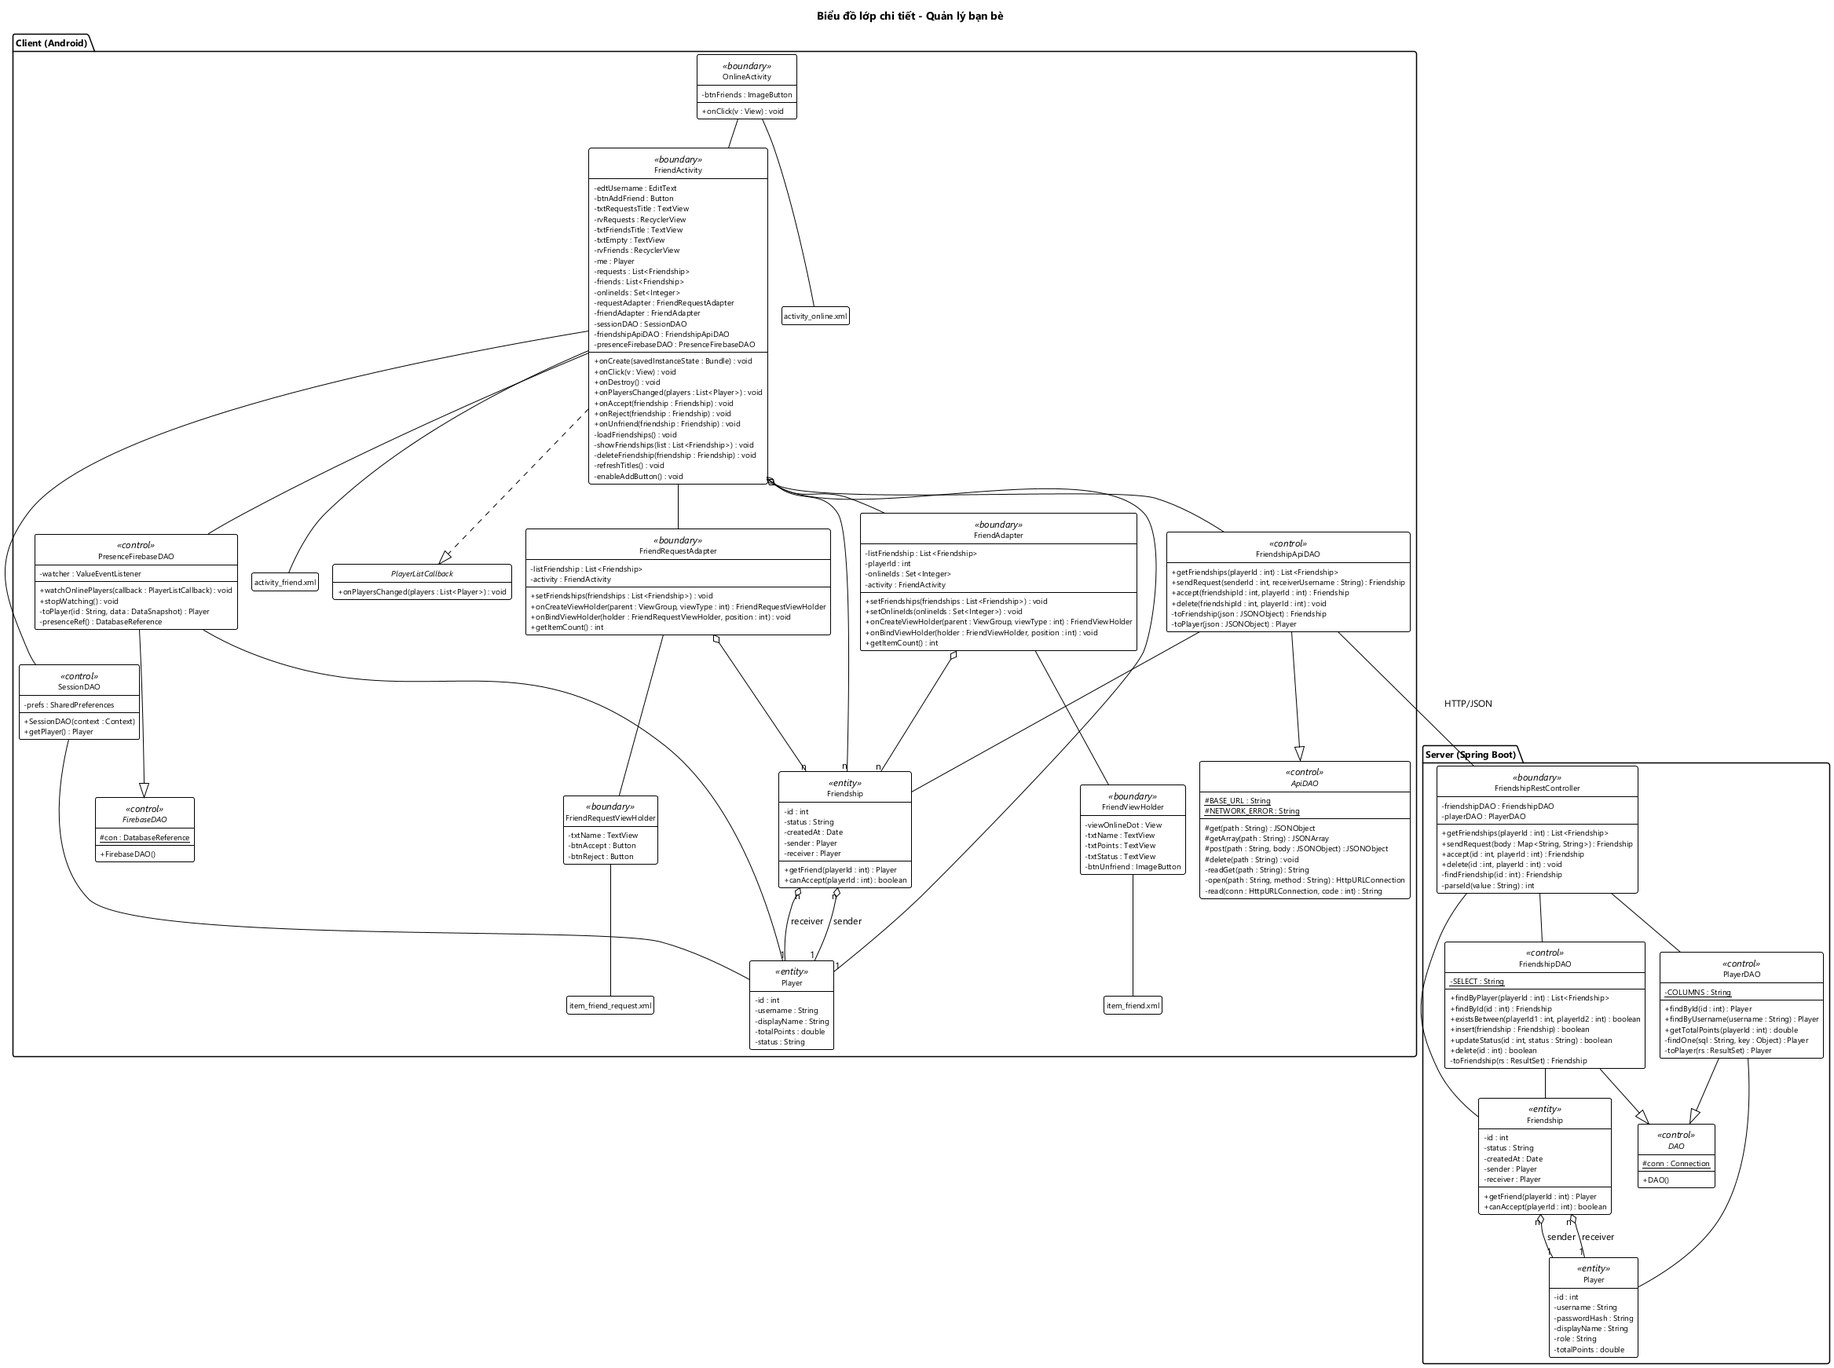
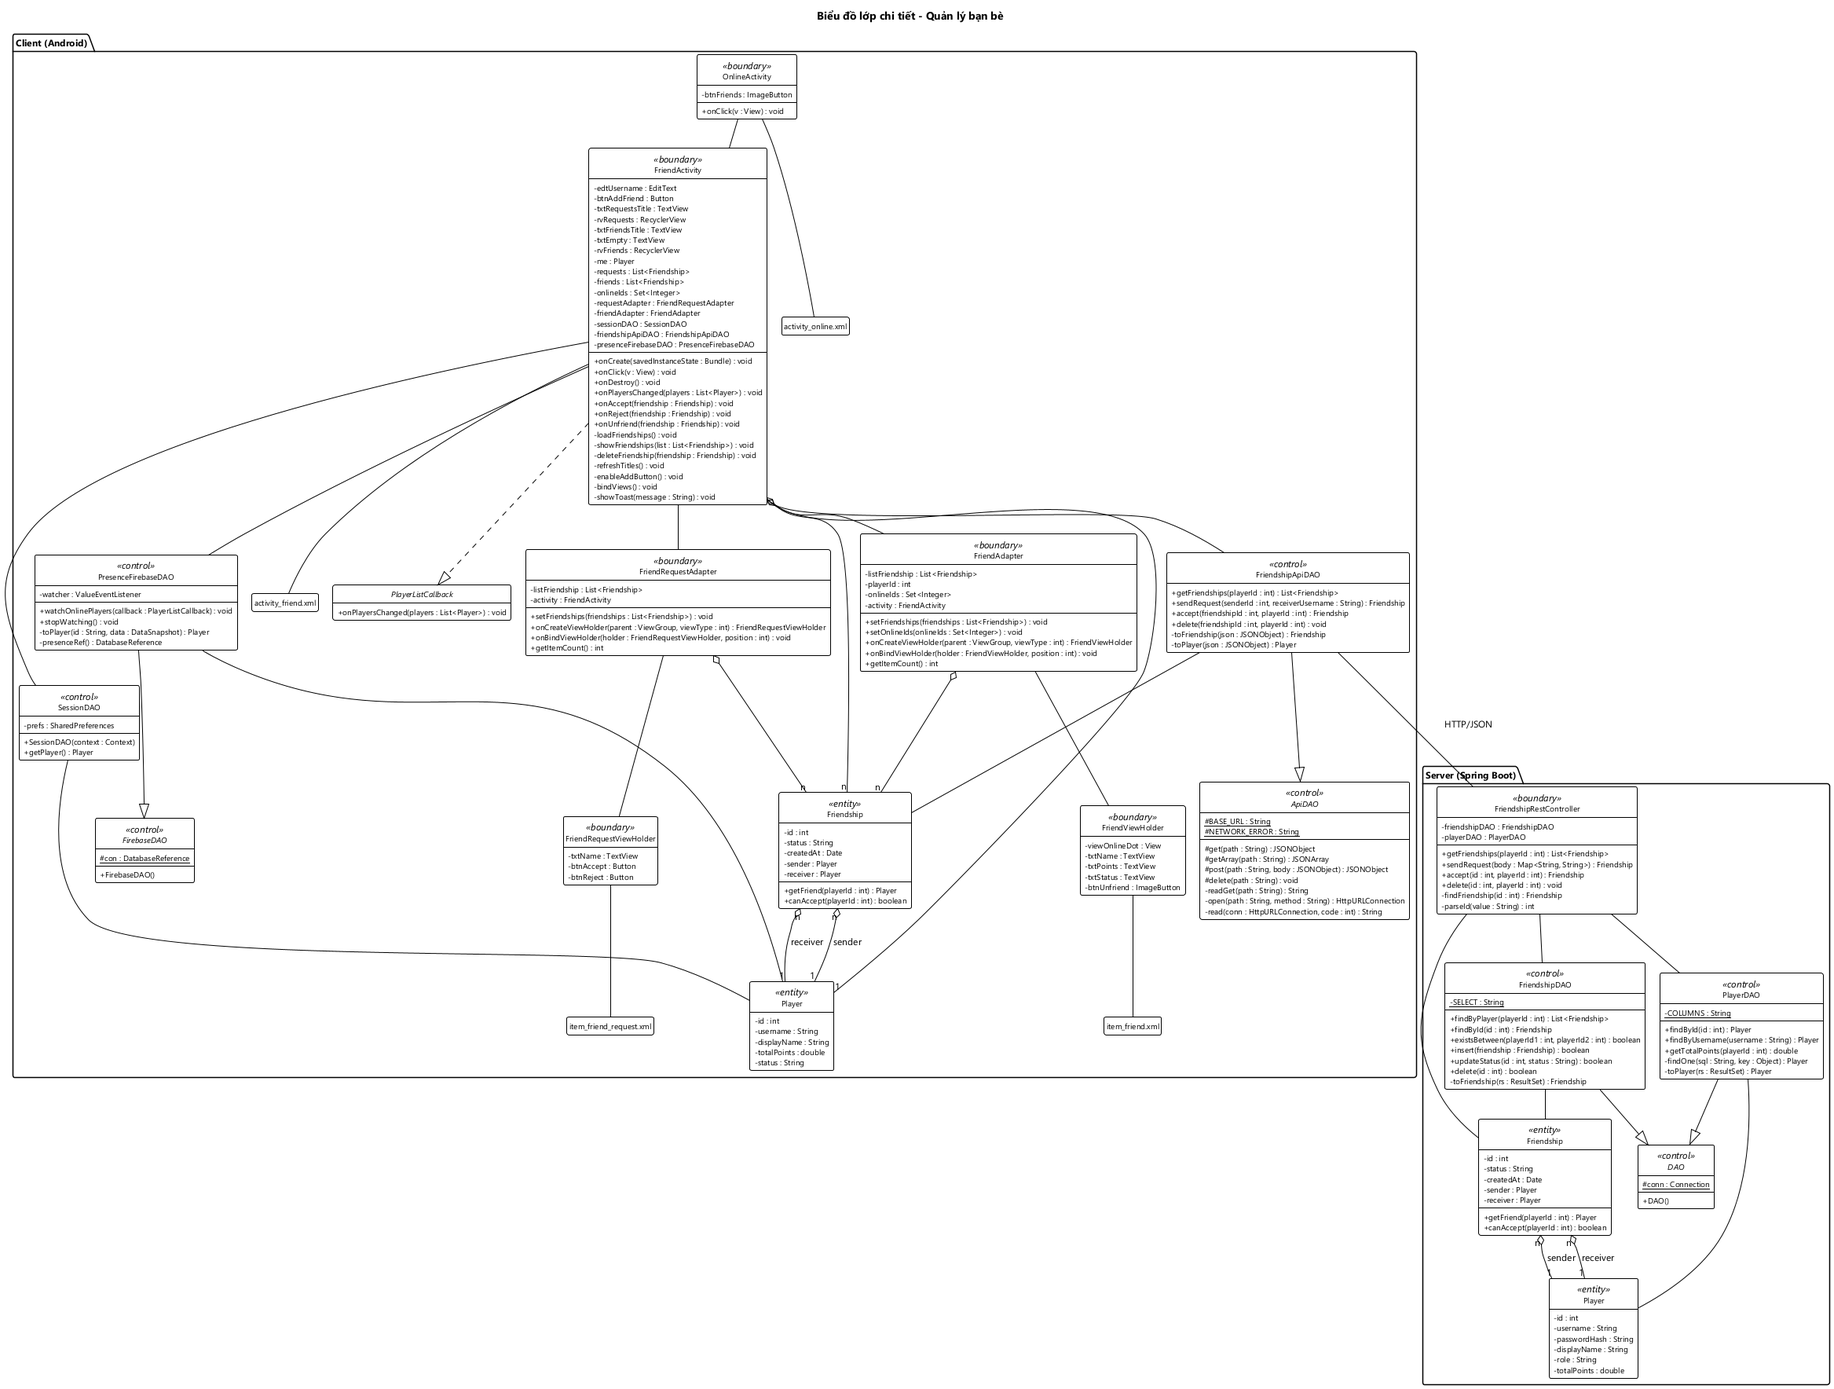
docs: FriendActivity đủ bindViews, showToast; màn Chơi với máy thống nhất kiểu thi đấu từng câu 4 ô A-D
- Biểu đồ lớp chi tiết Quản lý bạn bè và bảng mô tả lớp thêm bindViews, showToast cho khớp code; sinh lại launch.md
- Mô tả Chơi với máy (phạm vi, ví dụ trong quy ước báo cáo, issue M2-06) theo giao diện thi đấu mới: mỗi lần một câu, 4 ô A–D, làm xong 10 câu mới Nộp bài

diff --git a/docs/hung/BaoCao_Hung.md b/docs/hung/BaoCao_Hung.md
@@ -1460,7 +1460,7 @@ Các thông báo ngắn ("Đã gửi lời mời kết bạn tới HOANG", "Khô
 | Loại | Lớp | Mô tả |
 |---|---|---|
 | Boundary | OnlineActivity | onClick của btnFriends mở FriendActivity |
-| Boundary | FriendActivity | Màn Bạn bè, cài đặt View.OnClickListener và PlayerListCallback; giữ người chơi đang đăng nhập (me), các lời mời đã nhận (requests), bạn bè và lời mời đã gửi (friends), id những người đang online (onlineIds).<br>- onCreate lấy me bằng SessionDAO.getPlayer, gọi PresenceFirebaseDAO.watchOnlinePlayers rồi loadFriendships.<br>- loadFriendships gọi FriendshipApiDAO.getFriendships trong Thread, rồi trong runOnUiThread gọi showFriendships.<br>- showFriendships dùng Friendship.canAccept để tách lời mời mình cần trả lời vào requests, phần còn lại vào friends, rồi đưa vào 2 Adapter.<br>- onPlayersChanged lấy id những người đang online vào onlineIds và gọi FriendAdapter.setOnlineIds.<br>- onClick của nút Kết bạn kiểm tra ô không trống, gọi FriendshipApiDAO.sendRequest trong Thread, thêm lời mời vào cuối friends và hiện Toast.<br>- onAccept gọi FriendshipApiDAO.accept, chuyển quan hệ từ requests sang friends. onReject và onUnfriend (sau khi hỏi xác nhận) cùng gọi deleteFriendship, hàm này gọi FriendshipApiDAO.delete rồi bỏ quan hệ khỏi 2 danh sách.<br>- refreshTitles cập nhật số lời mời, số bạn và dòng "Chưa có bạn bè"; enableAddButton bật lại nút Kết bạn khi gửi lỗi.<br>- onDestroy gọi PresenceFirebaseDAO.stopWatching.<br>Lỗi server (không tìm thấy, đã có quan hệ, lời mời không còn) hiện bằng Toast với câu thông báo server trả về |
+| Boundary | FriendActivity | Màn Bạn bè, cài đặt View.OnClickListener và PlayerListCallback; giữ người chơi đang đăng nhập (me), các lời mời đã nhận (requests), bạn bè và lời mời đã gửi (friends), id những người đang online (onlineIds).<br>- onCreate lấy me bằng SessionDAO.getPlayer, gọi bindViews (gắn các View, tạo FriendRequestAdapter cho rvRequests và FriendAdapter cho rvFriends, gắn sự kiện nút Kết bạn), gọi PresenceFirebaseDAO.watchOnlinePlayers rồi loadFriendships.<br>- loadFriendships gọi FriendshipApiDAO.getFriendships trong Thread, rồi trong runOnUiThread gọi showFriendships.<br>- showFriendships dùng Friendship.canAccept để tách lời mời mình cần trả lời vào requests, phần còn lại vào friends, rồi đưa vào 2 Adapter.<br>- onPlayersChanged lấy id những người đang online vào onlineIds và gọi FriendAdapter.setOnlineIds.<br>- onClick của nút Kết bạn kiểm tra ô không trống, gọi FriendshipApiDAO.sendRequest trong Thread, thêm lời mời vào cuối friends và hiện Toast.<br>- onAccept gọi FriendshipApiDAO.accept, chuyển quan hệ từ requests sang friends. onReject và onUnfriend (sau khi hỏi xác nhận) cùng gọi deleteFriendship, hàm này gọi FriendshipApiDAO.delete rồi bỏ quan hệ khỏi 2 danh sách.<br>- refreshTitles cập nhật số lời mời, số bạn và dòng "Chưa có bạn bè"; enableAddButton bật lại nút Kết bạn khi gửi lỗi.<br>- onDestroy gọi PresenceFirebaseDAO.stopWatching.<br>Lỗi server (không tìm thấy, đã có quan hệ, lời mời không còn) hiện bằng showToast: hàm này hiện Toast trong runOnUiThread với câu thông báo server trả về, gọi được từ Thread |
 | Boundary | FriendRequestAdapter, FriendRequestViewHolder | FriendRequestAdapter kế thừa RecyclerView.Adapter, giữ danh sách Friendship đã nhận. setFriendships thay danh sách và vẽ lại. onBindViewHolder hiện tên người gửi (sender); nút Đồng ý gọi FriendActivity.onAccept, nút Từ chối gọi FriendActivity.onReject. FriendRequestViewHolder giữ txtName, btnAccept, btnReject |
 | Boundary | FriendAdapter, FriendViewHolder | FriendAdapter giữ danh sách Friendship, id của người xem (playerId) và onlineIds. onBindViewHolder lấy người bạn bằng Friendship.getFriend(playerId):<br>- Quan hệ accepted: hiện tổng điểm, chấm xanh và Online nếu id người bạn có trong onlineIds, ngược lại chấm xám và Offline.<br>- Lời mời pending mình đã gửi: hiện "Đang chờ trả lời".<br>Nút × gọi FriendActivity.onUnfriend. setOnlineIds chỉ vẽ lại trạng thái, không gọi server. FriendViewHolder giữ viewOnlineDot, txtName, txtPoints, txtStatus, btnUnfriend |
 | — | PlayerListCallback | Interface trả danh sách người chơi online từ PresenceFirebaseDAO về FriendActivity; dùng chung với Chơi online |

diff --git a/docs/hung/4-lop-thiet-ke.md b/docs/hung/4-lop-thiet-ke.md
@@ -339,7 +339,7 @@ Các thông báo ngắn ("Đã gửi lời mời kết bạn tới HOANG", "Khô
 | Loại | Lớp | Mô tả |
 |---|---|---|
 | Boundary | OnlineActivity | onClick của btnFriends mở FriendActivity |
-| Boundary | FriendActivity | Màn Bạn bè, cài đặt View.OnClickListener và PlayerListCallback; giữ người chơi đang đăng nhập (me), các lời mời đã nhận (requests), bạn bè và lời mời đã gửi (friends), id những người đang online (onlineIds).<br>- onCreate lấy me bằng SessionDAO.getPlayer, gọi PresenceFirebaseDAO.watchOnlinePlayers rồi loadFriendships.<br>- loadFriendships gọi FriendshipApiDAO.getFriendships trong Thread, rồi trong runOnUiThread gọi showFriendships.<br>- showFriendships dùng Friendship.canAccept để tách lời mời mình cần trả lời vào requests, phần còn lại vào friends, rồi đưa vào 2 Adapter.<br>- onPlayersChanged lấy id những người đang online vào onlineIds và gọi FriendAdapter.setOnlineIds.<br>- onClick của nút Kết bạn kiểm tra ô không trống, gọi FriendshipApiDAO.sendRequest trong Thread, thêm lời mời vào cuối friends và hiện Toast.<br>- onAccept gọi FriendshipApiDAO.accept, chuyển quan hệ từ requests sang friends. onReject và onUnfriend (sau khi hỏi xác nhận) cùng gọi deleteFriendship, hàm này gọi FriendshipApiDAO.delete rồi bỏ quan hệ khỏi 2 danh sách.<br>- refreshTitles cập nhật số lời mời, số bạn và dòng "Chưa có bạn bè"; enableAddButton bật lại nút Kết bạn khi gửi lỗi.<br>- onDestroy gọi PresenceFirebaseDAO.stopWatching.<br>Lỗi server (không tìm thấy, đã có quan hệ, lời mời không còn) hiện bằng Toast với câu thông báo server trả về |
+| Boundary | FriendActivity | Màn Bạn bè, cài đặt View.OnClickListener và PlayerListCallback; giữ người chơi đang đăng nhập (me), các lời mời đã nhận (requests), bạn bè và lời mời đã gửi (friends), id những người đang online (onlineIds).<br>- onCreate lấy me bằng SessionDAO.getPlayer, gọi bindViews (gắn các View, tạo FriendRequestAdapter cho rvRequests và FriendAdapter cho rvFriends, gắn sự kiện nút Kết bạn), gọi PresenceFirebaseDAO.watchOnlinePlayers rồi loadFriendships.<br>- loadFriendships gọi FriendshipApiDAO.getFriendships trong Thread, rồi trong runOnUiThread gọi showFriendships.<br>- showFriendships dùng Friendship.canAccept để tách lời mời mình cần trả lời vào requests, phần còn lại vào friends, rồi đưa vào 2 Adapter.<br>- onPlayersChanged lấy id những người đang online vào onlineIds và gọi FriendAdapter.setOnlineIds.<br>- onClick của nút Kết bạn kiểm tra ô không trống, gọi FriendshipApiDAO.sendRequest trong Thread, thêm lời mời vào cuối friends và hiện Toast.<br>- onAccept gọi FriendshipApiDAO.accept, chuyển quan hệ từ requests sang friends. onReject và onUnfriend (sau khi hỏi xác nhận) cùng gọi deleteFriendship, hàm này gọi FriendshipApiDAO.delete rồi bỏ quan hệ khỏi 2 danh sách.<br>- refreshTitles cập nhật số lời mời, số bạn và dòng "Chưa có bạn bè"; enableAddButton bật lại nút Kết bạn khi gửi lỗi.<br>- onDestroy gọi PresenceFirebaseDAO.stopWatching.<br>Lỗi server (không tìm thấy, đã có quan hệ, lời mời không còn) hiện bằng showToast: hàm này hiện Toast trong runOnUiThread với câu thông báo server trả về, gọi được từ Thread |
 | Boundary | FriendRequestAdapter, FriendRequestViewHolder | FriendRequestAdapter kế thừa RecyclerView.Adapter, giữ danh sách Friendship đã nhận. setFriendships thay danh sách và vẽ lại. onBindViewHolder hiện tên người gửi (sender); nút Đồng ý gọi FriendActivity.onAccept, nút Từ chối gọi FriendActivity.onReject. FriendRequestViewHolder giữ txtName, btnAccept, btnReject |
 | Boundary | FriendAdapter, FriendViewHolder | FriendAdapter giữ danh sách Friendship, id của người xem (playerId) và onlineIds. onBindViewHolder lấy người bạn bằng Friendship.getFriend(playerId):<br>- Quan hệ accepted: hiện tổng điểm, chấm xanh và Online nếu id người bạn có trong onlineIds, ngược lại chấm xám và Offline.<br>- Lời mời pending mình đã gửi: hiện "Đang chờ trả lời".<br>Nút × gọi FriendActivity.onUnfriend. setOnlineIds chỉ vẽ lại trạng thái, không gọi server. FriendViewHolder giữ viewOnlineDot, txtName, txtPoints, txtStatus, btnUnfriend |
 | — | PlayerListCallback | Interface trả danh sách người chơi online từ PresenceFirebaseDAO về FriendActivity; dùng chung với Chơi online |

diff --git a/docs/hung/launch.md b/docs/hung/launch.md
@@ -1460,7 +1460,7 @@ Package "Client (Android)".
 | Loại | Lớp | Mô tả |
 |---|---|---|
 | Boundary | OnlineActivity | onClick của btnFriends mở FriendActivity |
-| Boundary | FriendActivity | Màn Bạn bè, cài đặt View.OnClickListener và PlayerListCallback; giữ người chơi đang đăng nhập (me), các lời mời đã nhận (requests), bạn bè và lời mời đã gửi (friends), id những người đang online (onlineIds).<br>- onCreate lấy me bằng SessionDAO.getPlayer, gọi PresenceFirebaseDAO.watchOnlinePlayers rồi loadFriendships.<br>- loadFriendships gọi FriendshipApiDAO.getFriendships trong Thread, rồi trong runOnUiThread gọi showFriendships.<br>- showFriendships dùng Friendship.canAccept để tách lời mời mình cần trả lời vào requests, phần còn lại vào friends, rồi đưa vào 2 Adapter.<br>- onPlayersChanged lấy id những người đang online vào onlineIds và gọi FriendAdapter.setOnlineIds.<br>- onClick của nút Kết bạn kiểm tra ô không trống, gọi FriendshipApiDAO.sendRequest trong Thread, thêm lời mời vào cuối friends và hiện Toast.<br>- onAccept gọi FriendshipApiDAO.accept, chuyển quan hệ từ requests sang friends. onReject và onUnfriend (sau khi hỏi xác nhận) cùng gọi deleteFriendship, hàm này gọi FriendshipApiDAO.delete rồi bỏ quan hệ khỏi 2 danh sách.<br>- refreshTitles cập nhật số lời mời, số bạn và dòng "Chưa có bạn bè"; enableAddButton bật lại nút Kết bạn khi gửi lỗi.<br>- onDestroy gọi PresenceFirebaseDAO.stopWatching.<br>Lỗi server (không tìm thấy, đã có quan hệ, lời mời không còn) hiện bằng Toast với câu thông báo server trả về |
+| Boundary | FriendActivity | Màn Bạn bè, cài đặt View.OnClickListener và PlayerListCallback; giữ người chơi đang đăng nhập (me), các lời mời đã nhận (requests), bạn bè và lời mời đã gửi (friends), id những người đang online (onlineIds).<br>- onCreate lấy me bằng SessionDAO.getPlayer, gọi bindViews (gắn các View, tạo FriendRequestAdapter cho rvRequests và FriendAdapter cho rvFriends, gắn sự kiện nút Kết bạn), gọi PresenceFirebaseDAO.watchOnlinePlayers rồi loadFriendships.<br>- loadFriendships gọi FriendshipApiDAO.getFriendships trong Thread, rồi trong runOnUiThread gọi showFriendships.<br>- showFriendships dùng Friendship.canAccept để tách lời mời mình cần trả lời vào requests, phần còn lại vào friends, rồi đưa vào 2 Adapter.<br>- onPlayersChanged lấy id những người đang online vào onlineIds và gọi FriendAdapter.setOnlineIds.<br>- onClick của nút Kết bạn kiểm tra ô không trống, gọi FriendshipApiDAO.sendRequest trong Thread, thêm lời mời vào cuối friends và hiện Toast.<br>- onAccept gọi FriendshipApiDAO.accept, chuyển quan hệ từ requests sang friends. onReject và onUnfriend (sau khi hỏi xác nhận) cùng gọi deleteFriendship, hàm này gọi FriendshipApiDAO.delete rồi bỏ quan hệ khỏi 2 danh sách.<br>- refreshTitles cập nhật số lời mời, số bạn và dòng "Chưa có bạn bè"; enableAddButton bật lại nút Kết bạn khi gửi lỗi.<br>- onDestroy gọi PresenceFirebaseDAO.stopWatching.<br>Lỗi server (không tìm thấy, đã có quan hệ, lời mời không còn) hiện bằng showToast: hàm này hiện Toast trong runOnUiThread với câu thông báo server trả về, gọi được từ Thread |
 | Boundary | FriendRequestAdapter, FriendRequestViewHolder | FriendRequestAdapter kế thừa RecyclerView.Adapter, giữ danh sách Friendship đã nhận. setFriendships thay danh sách và vẽ lại. onBindViewHolder hiện tên người gửi (sender); nút Đồng ý gọi FriendActivity.onAccept, nút Từ chối gọi FriendActivity.onReject. FriendRequestViewHolder giữ txtName, btnAccept, btnReject |
 | Boundary | FriendAdapter, FriendViewHolder | FriendAdapter giữ danh sách Friendship, id của người xem (playerId) và onlineIds. onBindViewHolder lấy người bạn bằng Friendship.getFriend(playerId):<br>- Quan hệ accepted: hiện tổng điểm, chấm xanh và Online nếu id người bạn có trong onlineIds, ngược lại chấm xám và Offline.<br>- Lời mời pending mình đã gửi: hiện "Đang chờ trả lời".<br>Nút × gọi FriendActivity.onUnfriend. setOnlineIds chỉ vẽ lại trạng thái, không gọi server. FriendViewHolder giữ viewOnlineDot, txtName, txtPoints, txtStatus, btnUnfriend |
 | — | PlayerListCallback | Interface trả danh sách người chơi online từ PresenceFirebaseDAO về FriendActivity; dùng chung với Chơi online |

diff --git a/ISSUES_PLAN.md b/ISSUES_PLAN.md
@@ -528,7 +528,7 @@ matches/{matchId}          status ("playing" | "finished"), startedAt,
 - **Input:** `SessionDAO`; `ProblemDAO`, `MathProblem`, `BotGame.getResult` (M1-07); bố cục màn thi đấu ở `docs/hung/4-lop-thiet-ke.md` mục 1.1 để thống nhất giao diện.
 - **Output:**
   - **`DifficultyActivity`:** 3 nút Dễ / Trung bình / Khó.
-  - **`BotGameActivity`** + layout: ô thời gian 60 s, dòng "Máy đang làm bài" / "Máy đã nộp bài" (đổi khi tới thời gian nộp của máy), danh sách 10 câu 4 phương án, nút Nộp bài, nút Thoát; overlay kết quả THẮNG / THUA / HÒA, số câu đúng và thời gian của mình và của máy, nút Chơi lại / Về menu.
+  - **`BotGameActivity`** + layout: ô thời gian 60 s, dòng "Máy đang làm bài" / "Máy đã nộp bài" (đổi khi tới thời gian nộp của máy), mỗi lần một câu với 4 ô A, B, C, D như `MatchActivity` (bấm một ô là sang câu sau), làm xong 10 câu mới hiện nút Nộp bài, nút Thoát; overlay kết quả THẮNG / THUA / HÒA, số câu đúng và thời gian của mình và của máy, nút Chơi lại / Về menu.
   - Giả lập máy: số câu đúng theo xác suất, thời gian nộp ngẫu nhiên theo D8.
   - **`BotGameDAO extends DAO`:** `insert(BotGame)`.
 - **Requirement:**

diff --git a/REPORT_CONVENTION.md b/REPORT_CONVENTION.md
@@ -138,7 +138,7 @@ A1 Kịch bản v1 ─> A2 Lớp thực thể ─┐              D1 Lớp thự
 - Viết theo dạng luồng nghiệp vụ, nối các bước bằng `→`.
 - Mỗi lần có giao diện hiện ra thì liệt kê đủ thành phần của giao diện đó.
 
-> *Chơi với máy:* Người chơi nhấn Chơi với máy ở giao diện chính → Giao diện chọn độ khó xuất hiện với 3 nút: Dễ, Trung bình, Khó → Người chơi chọn Trung bình → Giao diện thi đấu xuất hiện với: ô thời gian, dòng trạng thái của máy, danh sách 10 câu hỏi mỗi câu 4 phương án, nút Nộp bài, nút Thoát → …
+> *Chơi với máy:* Người chơi nhấn Chơi với máy ở giao diện chính → Giao diện chọn độ khó xuất hiện với 3 nút: Dễ, Trung bình, Khó → Người chơi chọn Trung bình → Giao diện thi đấu xuất hiện với: ô thời gian, dòng trạng thái của máy, "Câu 1/10", phép tính chữ lớn, 4 ô phương án A, B, C, D, nút Thoát → Người chơi bấm một ô, câu tiếp theo hiện ra → Làm xong 10 câu, nút Nộp bài hiện ra → …
 
 **Kịch bản chuẩn v1:**
 - Các bước đánh số, xen kẽ hành động của Người chơi và phản hồi của Hệ thống.
